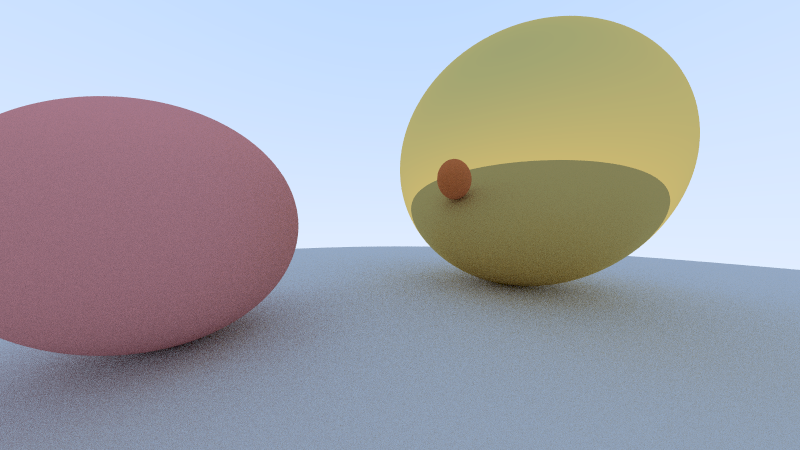
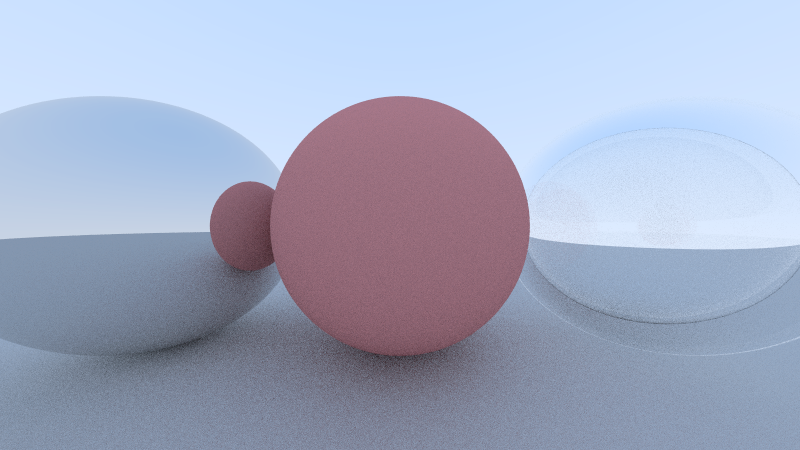
ADD: metal fuzziness

diff --git a/raytracer/internal/core/material.go b/raytracer/internal/core/material.go
@@ -1,9 +1,11 @@
 package core
 
 import (
+	"math"
 	"raytracer/internal/colors"
 	. "raytracer/internal/geometry"
 	. "raytracer/internal/geometry/shapes"
+	"raytracer/internal/utils"
 )
 
 type Material interface {
@@ -46,6 +48,7 @@ func (m *MatteMaterial) Scatter(ray Ray, hit Intersection) (
 
 type Metal struct {
 	Color colors.Color
+	Fuzz  float64
 }
 
 func (m *Metal) AttenuationColor() colors.Color {
@@ -56,8 +59,59 @@ func (m *Metal) Scatter(ray Ray, hit Intersection) (
 	success bool,
 	scatteredRay Ray,
 ) {
+	fuzz := utils.Clamp(m.Fuzz, 0.0, 1.0)
+
 	reflected := ray.Direction.Normalize().Reflect(hit.Normal)
-	scatteredRay = CreateRay(hit.Point, reflected)
+	scatteredRay = CreateRay(hit.Point, reflected.Add(CreateRandomVector().Mul(fuzz)))
 	success = true
 	return
+}
+
+// Transparent
+// ------------------------------------------------
+
+type Transparent struct {
+	Color      colors.Color
+	Refraction float64
+}
+
+func (m *Transparent) AttenuationColor() colors.Color {
+	return m.Color
+}
+
+func (m *Transparent) Scatter(ray Ray, hit Intersection) (
+	success bool,
+	scatteredRay Ray,
+) {
+	var refractionRatio float64
+
+	if hit.OutwardFacing {
+		refractionRatio = 1.0 / m.Refraction
+	} else {
+		refractionRatio = m.Refraction
+	}
+
+	dir := ray.Direction.Normalize()
+
+	cosTheta := math.Min(dir.Mul(-1).Dot(hit.Normal), 1.0)
+	sinTheta := math.Sqrt(1.0 - cosTheta*cosTheta)
+	cannotRefract := refractionRatio*sinTheta > 1.0
+
+	var outDir Vec3
+
+	if cannotRefract || reflectance(cosTheta, refractionRatio) > utils.Rand(0, 1) {
+		outDir = dir.Reflect(hit.Normal)
+	} else {
+		outDir = dir.Refract(hit.Normal, refractionRatio)
+	}
+
+	scatteredRay = CreateRay(hit.Point, outDir)
+	success = true
+	return
+}
+
+func reflectance(cosine float64, refIdx float64) float64 {
+	r0 := (1 - refIdx) / (1 + refIdx)
+	r0 = r0 * r0
+	return r0 + (1-r0)*math.Pow((1-cosine), 5)
 }

diff --git a/raytracer/internal/geometry/vector.go b/raytracer/internal/geometry/vector.go
@@ -102,3 +102,10 @@ func (v Vec3) NearZero() bool {
 func (v Vec3) Reflect(normal Vec3) Vec3 {
 	return v.Sub(normal.Mul(2 * v.Dot(normal)))
 }
+
+func (v Vec3) Refract(normal Vec3, etaiOverEtat float64) Vec3 {
+	cosTheta := math.Min(v.Mul(-1).Dot(normal), 1.0)
+	rOutPerpendicular := v.Add(normal.Mul(cosTheta)).Mul(etaiOverEtat)
+	rOutParallel := normal.Mul(-math.Sqrt(math.Abs(1.0 - rOutPerpendicular.LengthSquared())))
+	return rOutPerpendicular.Add(rOutParallel)
+}

diff --git a/raytracer/internal/core/object.go b/raytracer/internal/core/object.go
@@ -76,6 +76,12 @@ func DecodeMaterial(data map[string]interface{}) Material {
 			mapstructure.Decode(data, &mat),
 		)
 		return &mat
+	} else if materialType == "transparent" {
+		transparent := Transparent{}
+		utils.PanicOnError(
+			mapstructure.Decode(data, &transparent),
+		)
+		return &transparent
 	} else if materialType == "metal" {
 		metal := Metal{}
 		utils.PanicOnError(

diff --git a/raytracer/internal/core/raytracer.go b/raytracer/internal/core/raytracer.go
@@ -40,7 +40,9 @@ func (rt *Raytracer) ScreenHeight() int {
 // -----------------------------------------
 
 func (rt *Raytracer) ViewPortHeight() float64 {
-	return float64(rt.Viewport.Size)
+	theta := rt.Camera.VFOV * (math.Pi / 180)
+	h := math.Tan(theta / 2)
+	return 2 * h * rt.FocalLength
 }
 
 // -----------------------------------------

diff --git a/raytracer/internal/core/camera.go b/raytracer/internal/core/camera.go
@@ -5,7 +5,8 @@ import (
 )
 
 type Camera struct {
-	Origin Vec3 `yaml:"origin"`
+	Origin Vec3    `yaml:"origin"`
+	VFOV   float64 `yaml:"vfov"`
 }
 
 type Viewport struct {
